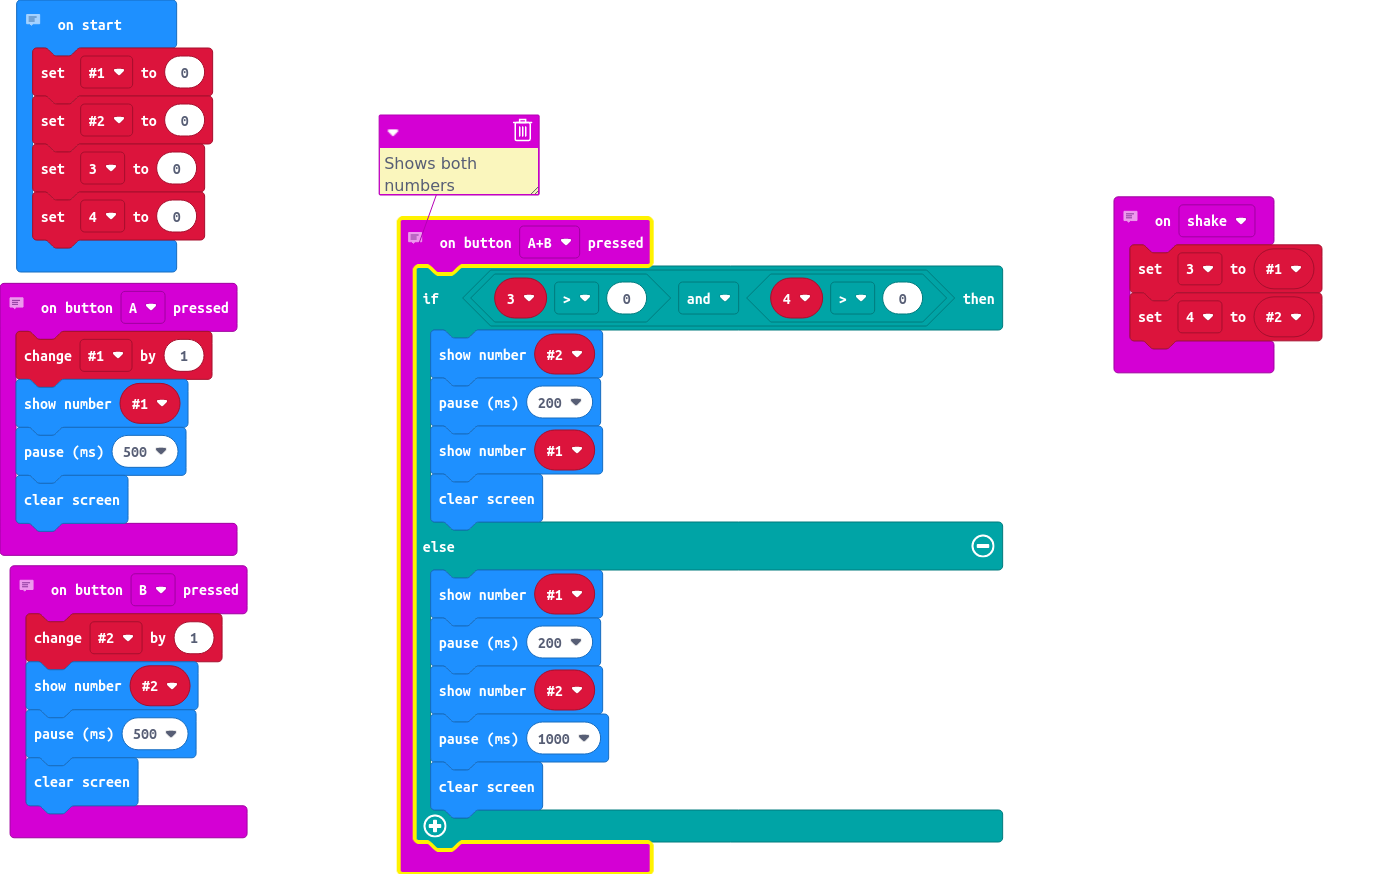
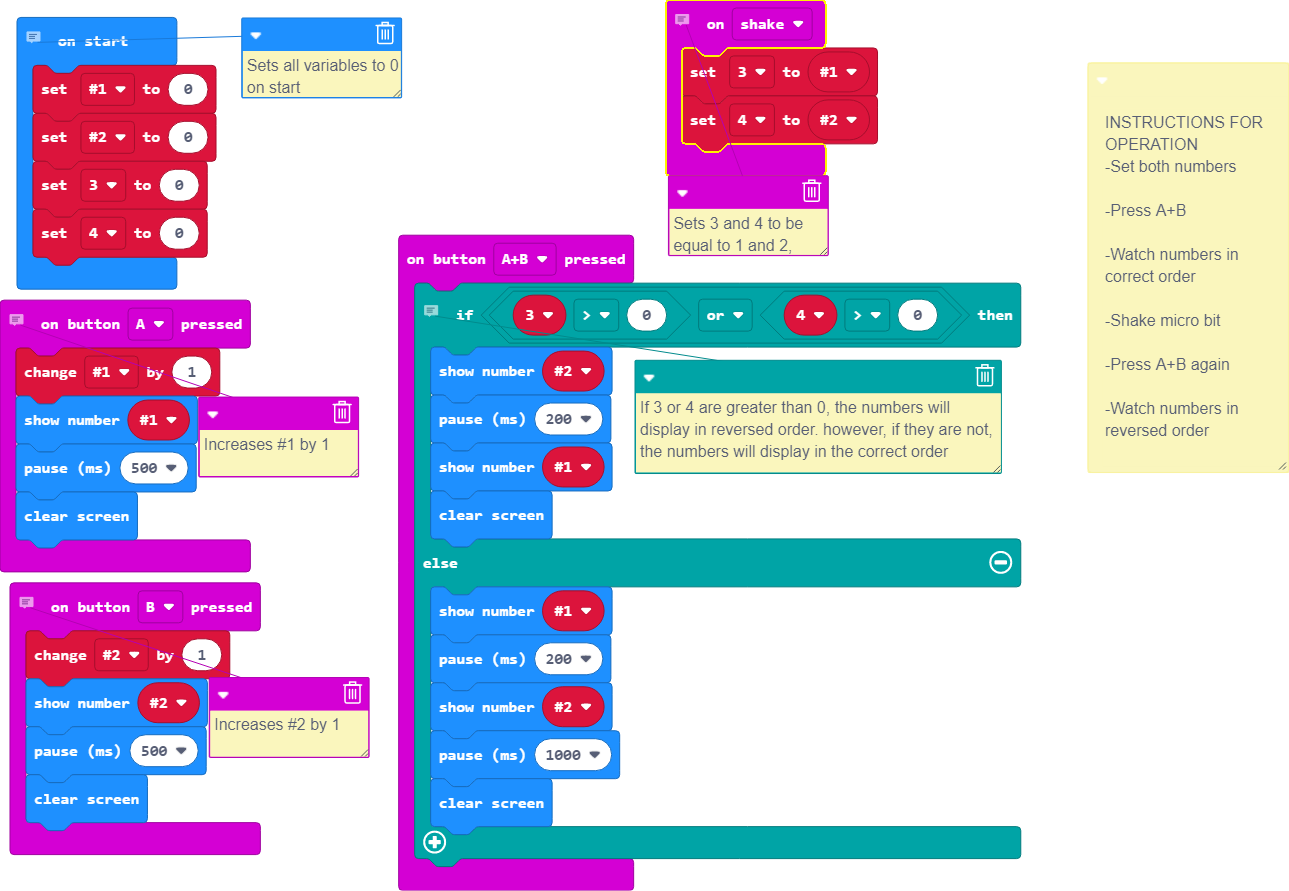
Update main.blocks, main.ts

diff --git a/main.ts b/main.ts
@@ -1,13 +1,28 @@
-// Increases the first number by 1
+// Increases #1 by 1
 input.onButtonPressed(Button.A, function () {
     _1 += 1
     basic.showNumber(_1)
     basic.pause(500)
     basic.clearScreen()
 })
-// Shows both numbers
+/**
+ * INSTRUCTIONS FOR OPERATION
+ * 
+ * -Set both numbers
+ * 
+ * -Press A+B
+ * 
+ * -Watch numbers in correct order
+ * 
+ * -Shake micro bit
+ * 
+ * -Press A+B again
+ * 
+ * -Watch numbers in reversed order
+ */
 input.onButtonPressed(Button.AB, function () {
-    if (_3 > 0 && _4 > 0) {
+    // If 3 or 4 are greater than 0, the numbers will display in reversed order. however, if they are not, the numbers will display in the correct order
+    if (_3 > 0 || _4 > 0) {
         basic.showNumber(_2)
         basic.pause(200)
         basic.showNumber(_1)
@@ -20,19 +35,19 @@ input.onButtonPressed(Button.AB, function () {
         basic.clearScreen()
     }
 })
-// Increases the second number by 1
+// Increases #2 by 1
 input.onButtonPressed(Button.B, function () {
     _2 += 1
     basic.showNumber(_2)
     basic.pause(500)
     basic.clearScreen()
 })
-// Shows both numbers in reverse order
+// Sets 3 and 4 to be equal to 1 and 2,
 input.onGesture(Gesture.Shake, function () {
     _3 = _1
     _4 = _2
 })
-// Sets both numbers to 0
+// Sets all variables to 0 on start
 let _2 = 0
 let _1 = 0
 let _4 = 0
